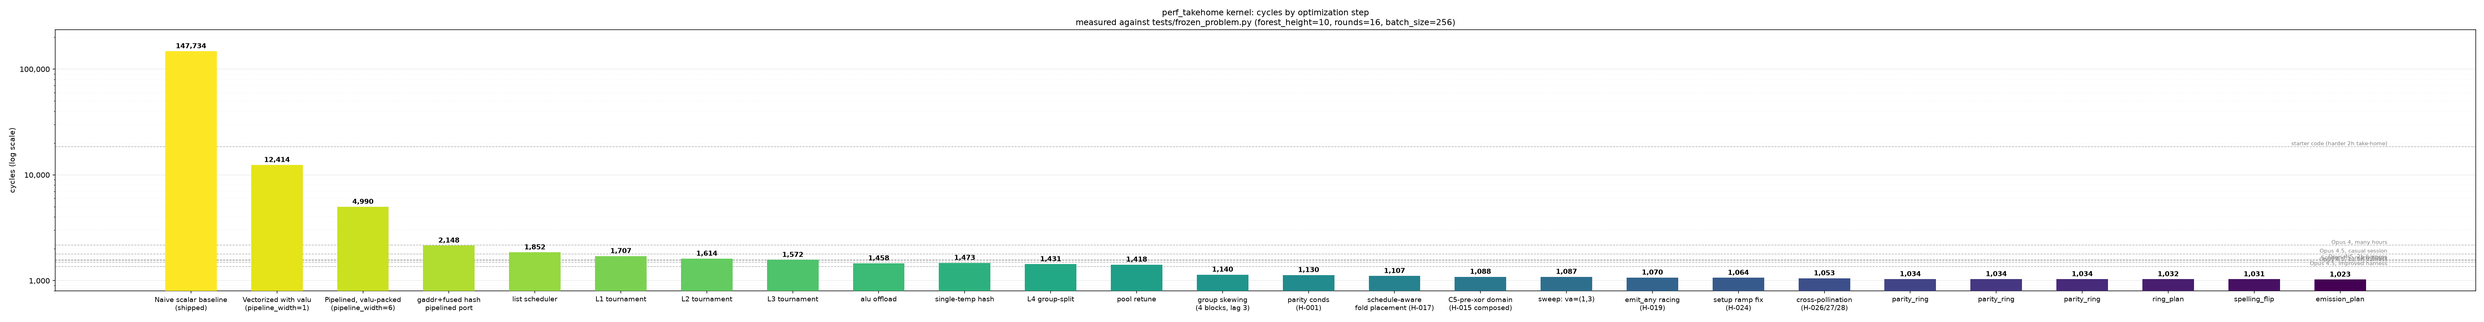
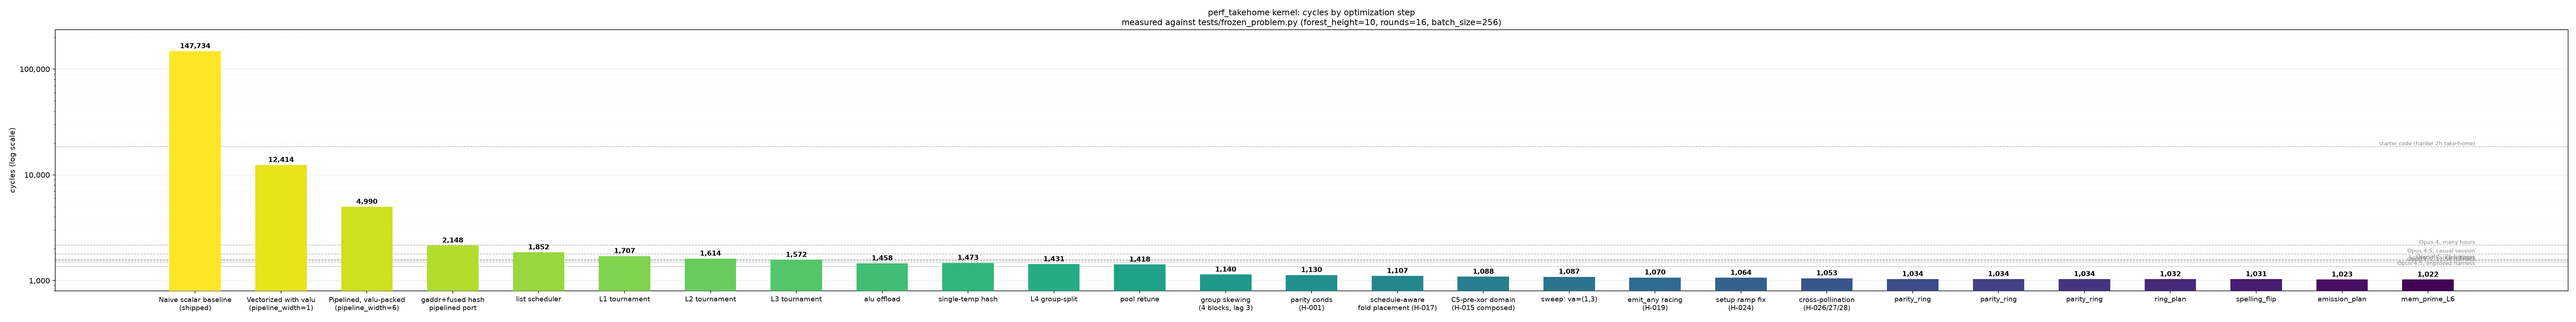
F-15: mainline flipped to 1022; iter-17 log with F-17 strategic retarget; gitignore .venv
Claude-Session: 5cfbd141-00dc-4755-aaa3-3deea70ab9f0

diff --git a/research/RESEARCH.md b/research/RESEARCH.md
@@ -7,7 +7,7 @@
 
 | cycles | commit | config |
 |---|---|---|
-| 1023 | F-12 port | H-049 512-entry emission-order plan (spelling pin subsumed) on the ring stack |
+| 1022 | F-15 port | H-047 mem_prime(5,6) + l4_gmin(7,30) + re-searched 512-entry emission plan |
 
 ## Floors (recalibrated 2026-07-27 at 1038, see tools/diagnose_kernel.py + tools/export_dashboard.py)
 
@@ -86,6 +86,7 @@ Global: 6 dry iterations -> one cross-pollination iteration. Status report to us
 - iter 13 | H-040 CLOSED ANSWERED: 892 = no-indices board + different organization; same-rules frontier 940; the 1,015 floor is a fixed-gather-count artifact. Loop redirected: H-041 select-tree gather conversion + per-cycle engine-mix balance (corsix: >280 gathers convertible, valu:load:flow 7.5:2:1), H-042 beam-search bundle packing (wallace: beats greedy). H-038/H-039 still running | best 1038
 - iter 13 | H-041 REJECTED -> G-23 (we ALREADY run the frontier's 7.5:2:1 balance — steady window co-saturated, valu binder floor 1020, friction only 18; L4 at equilibrium on count AND composition axes; L5 dead 3 ways; conversion activates only below ~950 after ~400 valu/~600 alu removal). MODE CHANGE (user directive): ALGO-FIRST under idealized machine (infinite scratch + perfect allocation) — fitting/allocation PARKED (H-042 parked); new algo strain: H-043 (frontier writeup mechanism extraction), H-044 (ideal-machine cost model + serving-strategy solve) | best 1038
 - iter 14 | H-045 PARTIAL ACCEPT: parity_ring cond retention (dead-window cross-block register borrowing, 480w at zero net alloc) + gmin slide -> strain frontier 1034 (-4), first win since restart; superadditive slices confirm the coupled prize; blockers: 384 more ring words for full retention (mid-schedule fully live), flow leg needs joint scheduling (H-042 re-scope) not spelling. F-1 mainline port spawned | best 1038 (frontier 1034)
+- iter 17 | H-047 PARTIAL ACCEPT -> frontier 1022 (-1): G-22's mem_prime(5,6) CONVERTS +1 -> -1 under per-candidate order re-search (2x2: priming's -184 alu slots fund the gmin slide, valu floor 1011->1010; each leg alone ties/loses). Serve-more CLOSED by floor arithmetic (+7.2 valu slots/serve at greedy spellings); e1<27 CRASHES (omf1_vec wall, F-16). **F-17 STRATEGIC: flowmax probe finds a FLAG-REACHABLE op stream at any-packing floor 990 (valu 995/flow 989 — corsix's ratio emerges) whose actual schedule is 1104; the full 33-cyc gap is the select-readiness x flow-bubble anti-correlation. ALL future flow/emission work must be evaluated on that stream — baseline-mix evaluation understates by ~15 floor cyc.** F-15 MAINLINE FLIPPED -> 1022 (also ported ignore_mem_write_hazard into perf's scheduler; off-shape sweep improved: h6 1020->1014, h8 1079->1077, h9 1062->1060) | best 1022
 - iter 16 | H-051 CLOSED NEGATIVE -> G-25 (packing axis: interval LB 1015 for ANY packing, 170k trials never beat greedy; regret profile localizes all 18 friction cycles; NEW r9-11 epoch seam found). H-049 PARTIAL ACCEPT: emission-order search -> frontier 1023 (-8; ramp/drain-seam moves; structured families ALL closed; epoch seam order-resistant; order absorbs the spelling prize — F-9 pin reverted). F-12 MAINLINE FLIPPED -> 1023. TRIANGULATION: spelling (H-042) + packing (G-25) + order (H-049) all exhausted — below ~1023 requires op/chain changes (H-047 restructure is the remaining lever). Day tally: 1038 -> 1023
 - iter 15 | H-042 PARTIAL ACCEPT (frontier 1031 = plan-space optimum; selection-under-fixed-order EXHAUSTED; full 384-word retention now cost-neutral; LP's valu->flow direction never pays — winning flip is the reverse; residual ~55-cyc prize is EMISSION-ORDER-shaped -> F-11 beam or H-047). F-9 MAINLINE FLIPPED -> 1031 (site 354 mapped 1:1, zero drift, flag-free (13,29) pin). Restart tally: 1038 -> 1031 in one day, 6 accepts, 6 permanent closures
 - iter 15 | H-048 PARTIAL ACCEPT (frontier 1032: 4 plan rings, relief-funded gmin slide; 384-word supply PROVEN, conversion re-routed to H-042/F-8; trace-liveness soundness caveat). F-6 MAINLINE FLIPPED -> 1032 (named-vector derivation, zero drift). H-038 CLOSED NEGATIVE -> G-24 (1.586T cmpsel candidates; hash closed by 4th tool class, FINAL). H-042 unparked re-scoped (flow leg + ring-hazard placement), running | best 1032
